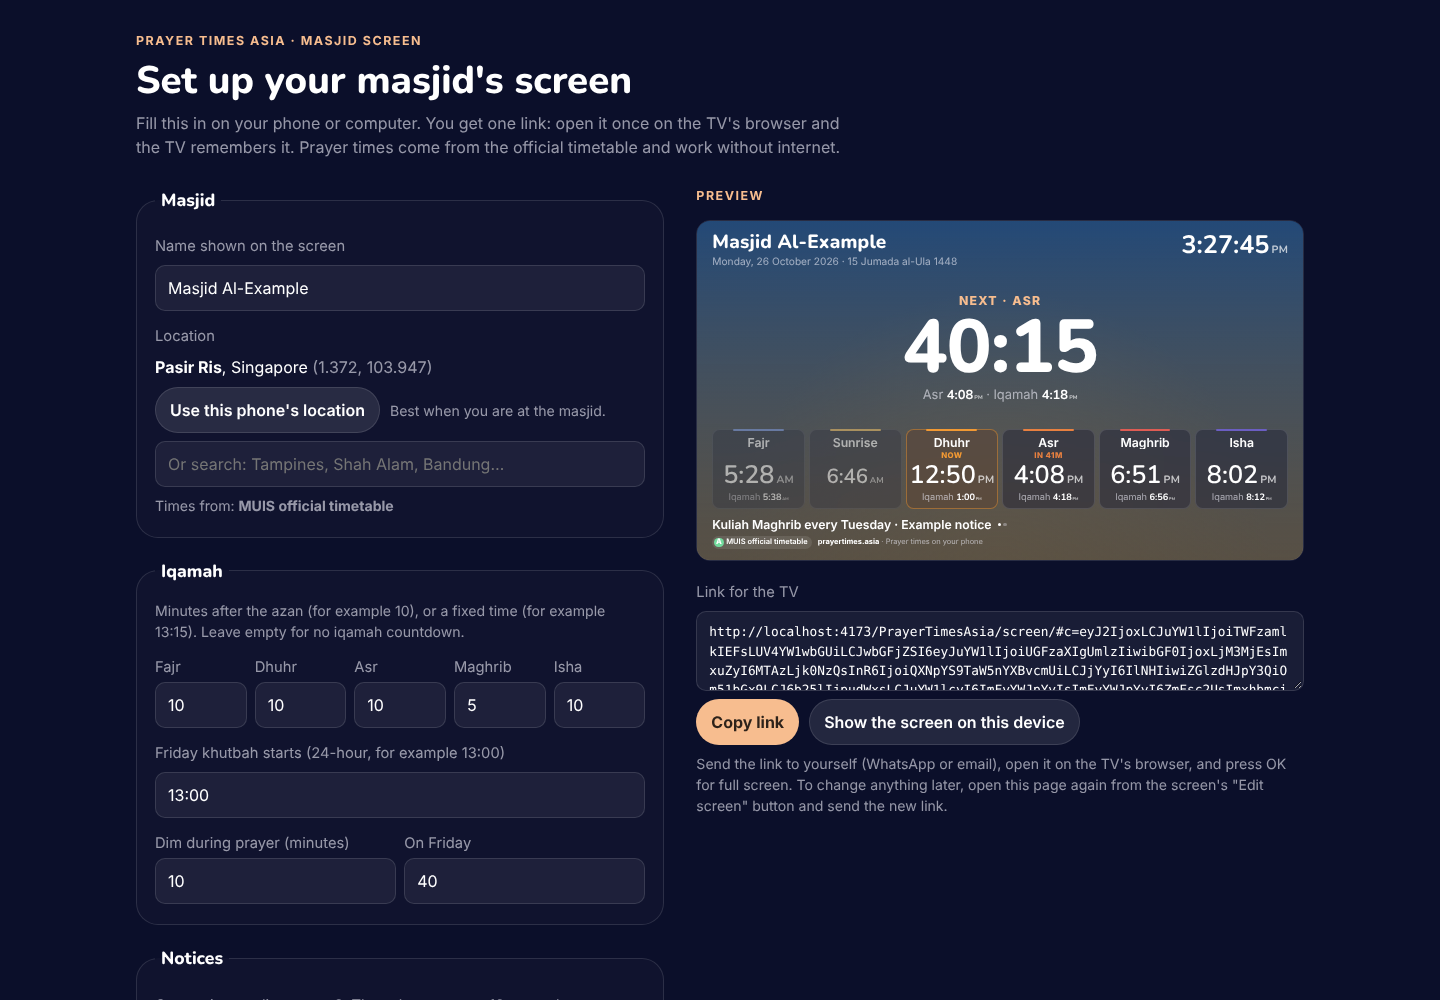
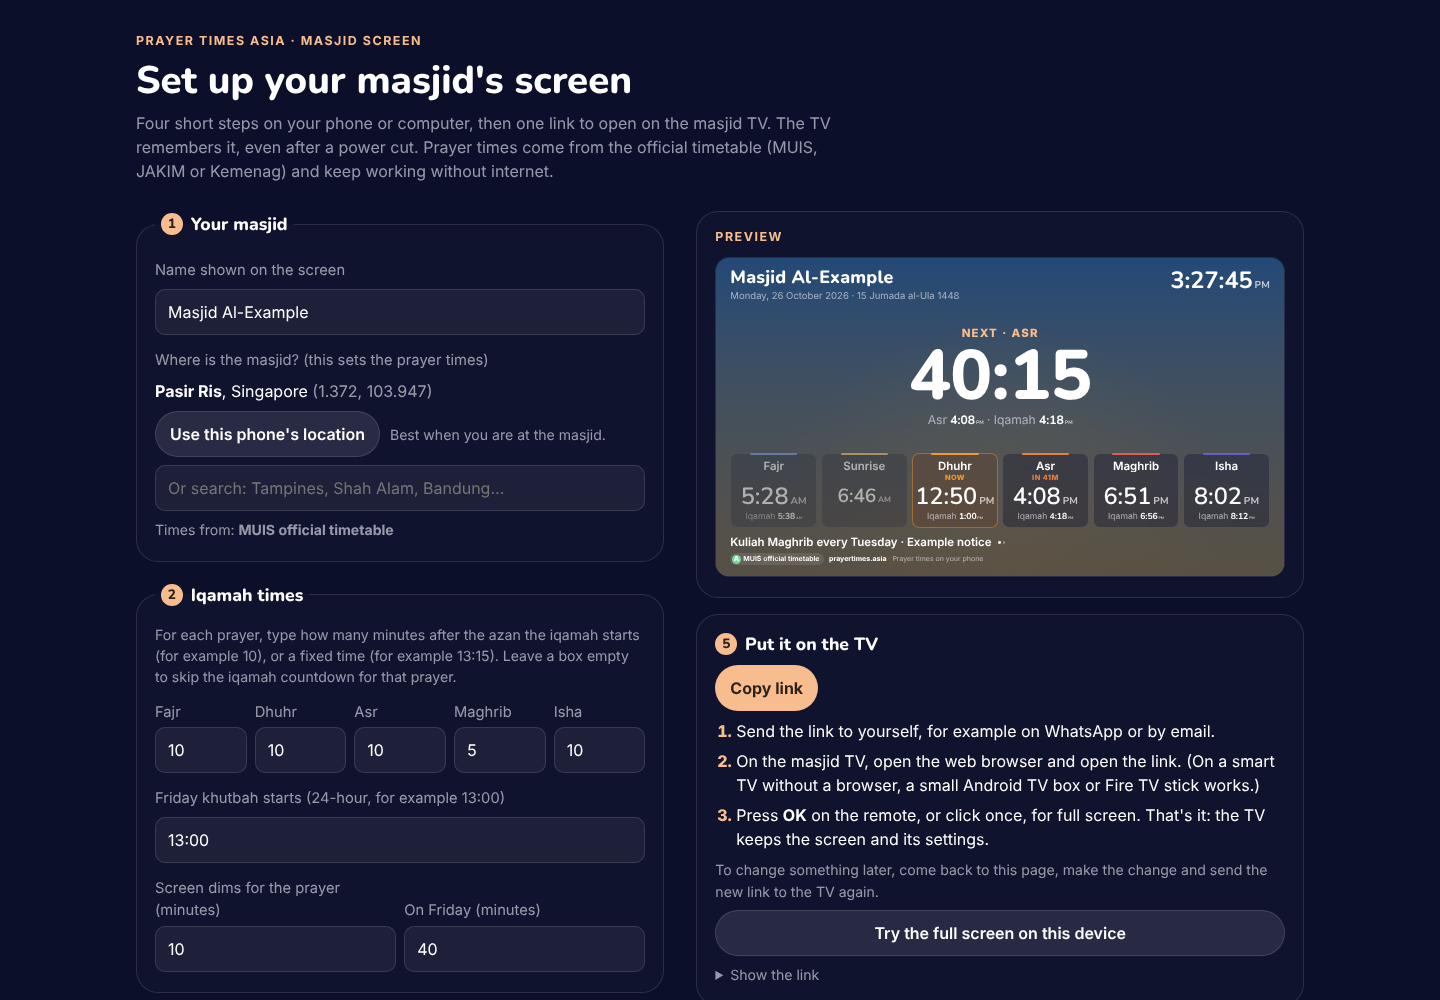
Masjid screen setup: fix overlap on phones, example preview, clearer steps (#19)
* Web: masjid screen for TVs, with a setup page for the committee

A second page (web/screen/) shows the next prayer's countdown, the six times
with iqamah, Jumu'ah khutbah, Ramadan Imsak and rotating notices, using the
same official MUIS/JAKIM/Kemenag tables and engine as the app. It dims during
prayer, keeps the TV awake, shifts against burn-in and reloads at 3 am.
Setup is a phone form that produces one link (settings in the #hash).
docs/masjid-screen.md records the research behind it.

Claude-Session: https://claude.ai/code/session_01N3UT55kGUzTCzRML5iKXZQ

* Masjid screen: English by default, three looks (Night, Day, Board)

Claude-Session: https://claude.ai/code/session_01N3UT55kGUzTCzRML5iKXZQ

* Masjid screen: match the app's look (Living Sky, rounded type, glass cards)

Claude-Session: https://claude.ai/code/session_01N3UT55kGUzTCzRML5iKXZQ

* Masjid screen: Bands, Day Dial and Sun Path looks from the app's styles

Claude-Session: https://claude.ai/code/session_01N3UT55kGUzTCzRML5iKXZQ

* Masjid screen setup: fix overlap on phones, example preview, clearer steps

On phones the preview panel was pinned to the top and slid over the form.
It now sits after the form, and is pinned only on tall desktop windows.
The preview shows example times until a location is chosen. The form is
four numbered steps, then step 5 explains how to put it on the TV, with
a Share button on phones and the raw link tucked away.
[…]

diff --git a/web/src/screen/Setup.tsx b/web/src/screen/Setup.tsx
@@ -6,7 +6,7 @@ import { deviceTimeZone } from '../core/tz'
 import { nearestCity, searchCities } from '../services/cities'
 import { ensureTable } from '../services/officialTables'
 import {
-  encodeConfig, iqamahText, isHHMM, MAX_NOTICE_LENGTH, MAX_NOTICES, OBLIGATORY_PRAYERS, parseIqamah,
+  encodeConfig, EXAMPLE_PLACE, iqamahText, isHHMM, MAX_NOTICE_LENGTH, MAX_NOTICES, OBLIGATORY_PRAYERS, parseIqamah,
   type Obligatory, type ScreenConfig, type ScreenLanguage, type ScreenLook, type ScreenPlace,
 } from './config'
 import { Display } from './Display'
@@ -25,7 +25,7 @@ export function Setup({ initial, now, onOpen }: { initial: ScreenConfig; now: nu
   const [notices, setNotices] = useState(initial.notices.join('\n'))
   const [query, setQuery] = useState('')
   const [gps, setGps] = useState<'idle' | 'busy' | 'failed'>('idle')
-  const [copied, setCopied] = useState(false)
+  const [copied, setCopied] = useState<'copied' | 'shared' | null>(null)
   const [, setTables] = useState(0)
 
   const set = (change: Partial<ScreenConfig>) => setC((old) => ({ ...old, ...change }))
@@ -69,29 +69,38 @@ export function Setup({ initial, now, onOpen }: { initial: ScreenConfig; now: nu
     set({ notices: text.split('\n').map((s) => s.trim().slice(0, MAX_NOTICE_LENGTH)).filter(Boolean).slice(0, MAX_NOTICES) })
   }
 
+  const flash = (what: 'copied' | 'shared') => { setCopied(what); setTimeout(() => setCopied(null), 2500) }
   const copy = async () => {
-    try { await navigator.clipboard.writeText(link); setCopied(true); setTimeout(() => setCopied(false), 2500) } catch {
-      const el = document.getElementById('screen-link') as HTMLTextAreaElement | null
-      el?.select()
+    try { await navigator.clipboard.writeText(link); flash('copied') } catch {
+      const box = document.getElementById('screen-link-box') as HTMLDetailsElement | null
+      if (box) box.open = true
+      ;(document.getElementById('screen-link') as HTMLTextAreaElement | null)?.select()
     }
   }
+  // Phones: the share sheet, so the link goes straight into WhatsApp or email.
+  const canShare = typeof navigator !== 'undefined' && typeof navigator.share === 'function'
+  const share = async () => {
+    try { await navigator.share({ title: `${c.name || 'Masjid'} prayer screen`, text: 'Open this link on the masjid TV:', url: link }); flash('shared') } catch { /* closed */ }
+  }
+  // Until a location is chosen the preview shows an example, so it is never blank.
+  const preview = c.place ? c : { ...c, place: EXAMPLE_PLACE, name: c.name || 'Your masjid' }
 
   return (
     <main class="setup">
       <header class="setup-head">
         <p class="eyebrow">Prayer Times Asia · Masjid screen</p>
         <h1>Set up your masjid's screen</h1>
-        <p class="muted">Fill this in on your phone or computer. You get one link: open it once on the TV's browser and the TV remembers it. Prayer times come from the official timetable and work without internet.</p>
+        <p class="muted">Four short steps on your phone or computer, then one link to open on the masjid TV. The TV remembers it, even after a power cut. Prayer times come from the official timetable (MUIS, JAKIM or Kemenag) and keep working without internet.</p>
       </header>
 
       <div class="setup-body">
         <form class="setup-form" onSubmit={(e) => e.preventDefault()}>
           <fieldset>
-            <legend>Masjid</legend>
+            <legend><span class="step">1</span>Your masjid</legend>
             <label for="s-name">Name shown on the screen</label>
             <input id="s-name" value={c.name} maxLength={80} placeholder="Masjid Al-Falah" onInput={(e) => set({ name: (e.target as HTMLInputElement).value })} />
 
-            <label for="s-place">Location</label>
+            <label for="s-place">Where is the masjid? (this sets the prayer times)</label>
             {c.place && (
               <p class="setup-chosen">
                 <b>{c.place.name}</b>{c.place.cc && <>, {profileFor(c.place.cc)?.name ?? c.place.cc}</>} <span class="muted">({c.place.lat.toFixed(3)}, {c.place.lng.toFixed(3)})</span>
@@ -123,8 +132,8 @@ export function Setup({ initial, now, onOpen }: { initial: ScreenConfig; now: nu
           </fieldset>
 
           <fieldset>
-            <legend>Iqamah</legend>
-            <p class="muted small">Minutes after the azan (for example 10), or a fixed time (for example 13:15). Leave empty for no iqamah countdown.</p>
+            <legend><span class="step">2</span>Iqamah times</legend>
+            <p class="muted small">For each prayer, type how many minutes after the azan the iqamah starts (for example 10), or a fixed time (for example 13:15). Leave a box empty to skip the iqamah countdown for that prayer.</p>
             <div class="setup-iq">
               {OBLIGATORY_PRAYERS.map((p) => (
                 <div key={p}>
@@ -140,25 +149,25 @@ export function Setup({ initial, now, onOpen }: { initial: ScreenConfig; now: nu
               onInput={(e) => { const v = (e.target as HTMLInputElement).value.trim(); set({ jumuah: isHHMM(v) ? v.padStart(5, '0') : null }) }} />
             <div class="setup-iq two">
               <div>
-                <label for="s-dim">Dim during prayer (minutes)</label>
+                <label for="s-dim">Screen dims for the prayer (minutes)</label>
                 <input id="s-dim" type="number" min={0} max={30} value={c.dimMinutes} onInput={(e) => set({ dimMinutes: Math.max(0, Math.min(30, +(e.target as HTMLInputElement).value || 0)) })} />
               </div>
               <div>
-                <label for="s-dimj">On Friday</label>
+                <label for="s-dimj">On Friday (minutes)</label>
                 <input id="s-dimj" type="number" min={0} max={90} value={c.jumuahDimMinutes} onInput={(e) => set({ jumuahDimMinutes: Math.max(0, Math.min(90, +(e.target as HTMLInputElement).value || 0)) })} />
               </div>
             </div>
           </fieldset>
 
           <fieldset>
-            <legend>Notices</legend>
-            <label for="s-notices">One notice per line, up to {MAX_NOTICES}. They change every 12 seconds.</label>
+            <legend><span class="step">3</span>Notices <span class="muted small">(optional)</span></legend>
+            <label for="s-notices">One notice per line, up to {MAX_NOTICES}. The screen shows them one at a time, changing every 12 seconds.</label>
             <textarea id="s-notices" rows={5} value={notices} placeholder={'Kuliah Maghrib every Tuesday with Ustaz Ahmad\nKhairat kematian: contact the office'}
               onInput={(e) => setNoticeText((e.target as HTMLTextAreaElement).value)} />
           </fieldset>
 
           <fieldset>
-            <legend>Language and look</legend>
+            <legend><span class="step">4</span>Look and language</legend>
             <label for="s-look">Look</label>
             <select id="s-look" value={c.look} onChange={(e) => set({ look: (e.target as HTMLSelectElement).value as ScreenLook })}>
               <option value="night">Night: dark, calm in a dim hall</option>
@@ -188,17 +197,31 @@ export function Setup({ initial, now, onOpen }: { initial: ScreenConfig; now: nu
         </form>
 
         <aside class="setup-side">
-          <p class="eyebrow">Preview</p>
-          <Frame class="setup-preview"><Display config={c} now={now} /></Frame>
-          <div class="setup-link">
-            <label for="screen-link">Link for the TV</label>
-            <textarea id="screen-link" readOnly rows={3} value={link} onFocus={(e) => (e.target as HTMLTextAreaElement).select()} />
+          <section class="setup-card">
+            <p class="eyebrow">Preview</p>
+            <Frame class="setup-preview"><Display config={preview} now={now} /></Frame>
+            {!c.place && <p class="muted small">This is an example. Choose your masjid's location in step 1 to see its own times.</p>}
+          </section>
+
+          <section class="setup-card setup-link">
+            <h2><span class="step">5</span>Put it on the TV</h2>
+            {!c.place && <p class="setup-error">Choose the masjid's location in step 1 first.</p>}
             <div class="setup-row">
-              <button type="button" class="primary" onClick={copy} disabled={!c.place}>{copied ? 'Copied' : 'Copy link'}</button>
-              <button type="button" onClick={() => onOpen(c)} disabled={!c.place}>Show the screen on this device</button>
+              {canShare && <button type="button" class="primary" onClick={share} disabled={!c.place}>{copied === 'shared' ? 'Sent' : 'Share link'}</button>}
+              <button type="button" class={canShare ? '' : 'primary'} onClick={copy} disabled={!c.place}>{copied === 'copied' ? 'Copied' : 'Copy link'}</button>
             </div>
-            <p class="muted small">Send the link to yourself (WhatsApp or email), open it on the TV's browser, and press OK for full screen. To change anything later, open this page again from the screen's "Edit screen" button and send the new link.</p>
-          </div>
+            <ol class="setup-steps">
+              <li>Send the link to yourself, for example on WhatsApp or by email.</li>
+              <li>On the masjid TV, open the web browser and open the link. (On a smart TV without a browser, a small Android TV box or Fire TV stick works.)</li>
+              <li>Press <b>OK</b> on the remote, or click once, for full screen. That's it: the TV keeps the screen and its settings.</li>
+            </ol>
+            <p class="muted small">To change something later, come back to this page, make the change and send the new link to the TV again.</p>
+            <button type="button" onClick={() => onOpen(c)} disabled={!c.place}>Try the full screen on this device</button>
+            <details id="screen-link-box">
+              <summary class="muted small">Show the link</summary>
+              <textarea id="screen-link" readOnly rows={4} value={link} onFocus={(e) => (e.target as HTMLTextAreaElement).select()} />
+            </details>
+          </section>
         </aside>
       </div>
     </main>

diff --git a/web/src/screen/screen.css b/web/src/screen/screen.css
@@ -214,10 +214,19 @@ button, input, select, textarea { font: inherit; color: inherit; }
 .muted { color: var(--fg2); }
 .small { font-size: 0.88rem; }
 .setup-body { display: grid; grid-template-columns: minmax(0, 1fr) minmax(0, 1.15fr); gap: 32px; align-items: start; }
-@media (max-width: 900px) { .setup-body { grid-template-columns: 1fr; } .setup-side { order: -1; } }
+/* Phones and narrow windows: one column, preview and "Put it on the TV" after the four steps, nothing pinned. */
+@media (max-width: 900px) { .setup-body { grid-template-columns: 1fr; } }
 .setup-form { display: grid; gap: 20px; min-width: 0; }
 fieldset { border: 1px solid var(--stroke); border-radius: 22px; padding: 16px 18px 20px; margin: 0; display: grid; gap: 8px; background: var(--glass); min-width: 0; }
-legend { padding: 0 6px; font-family: var(--font-display); font-weight: 800; font-size: 1.1rem; }
+legend, .setup-card h2 { padding: 0 6px; font-family: var(--font-display); font-weight: 800; font-size: 1.1rem; display: inline-flex; align-items: center; gap: 8px; }
+.setup-card h2 { margin: 0; padding: 0; }
+.step { display: inline-grid; place-items: center; width: 1.6em; height: 1.6em; border-radius: 50%; background: var(--accent); color: rgba(0, 0, 0, 0.82); font-size: 0.85rem; font-weight: 800; flex: none; }
+.setup-card { border: 1px solid var(--stroke); border-radius: 22px; padding: 16px 18px 20px; background: var(--glass); display: grid; gap: 10px; min-width: 0; }
+.setup-card .eyebrow { margin: 0; }
+.setup-steps { margin: 0; padding-left: 1.3em; display: grid; gap: 6px; }
+.setup-steps li::marker { color: var(--accent); font-weight: 800; }
+details summary { cursor: pointer; }
+details textarea { margin-top: 8px; }
 fieldset p { margin: 0; }
 label { font-size: 0.92rem; color: var(--fg2); margin-top: 6px; }
 label.check { display: flex; gap: 10px; align-items: center; color: var(--fg); }
@@ -238,9 +247,12 @@ textarea { resize: vertical; }
 .setup-results li + li button { border-top: 1px solid var(--line); }
 .setup-results .muted { font-weight: 400; }
 .setup-iq { display: grid; grid-template-columns: repeat(5, minmax(0, 1fr)); gap: 8px; }
-.setup-iq.two { grid-template-columns: repeat(2, minmax(0, 1fr)); }
+@media (max-width: 420px) { .setup-iq { gap: 6px; } .setup-iq label { font-size: 0.8rem; } .setup-iq input { padding: 10px 6px; text-align: center; } }
+.setup-iq.two { grid-template-columns: repeat(2, minmax(0, 1fr)); align-items: end; }
 .setup-iq > div { display: grid; gap: 4px; }
-.setup-side { display: grid; gap: 14px; position: sticky; top: 16px; min-width: 0; }
+.setup-side { display: grid; gap: 16px; min-width: 0; }
+/* Keeps the preview in view while filling in the form, only where all of it fits on screen. */
+@media (min-width: 901px) and (min-height: 880px) { .setup-side { position: sticky; top: 16px; } }
 .setup-preview { aspect-ratio: 16 / 9; height: auto; border-radius: 14px; border: 1px solid var(--line); max-width: 100%; }
 .setup-link { display: grid; gap: 8px; }
 .setup-link textarea { font-family: ui-monospace, Menlo, monospace; font-size: 0.8rem; word-break: break-all; }

diff --git a/web/src/screen/main.tsx b/web/src/screen/main.tsx
@@ -6,7 +6,7 @@ import { zoned } from '../core/tz'
 import { ensureTable } from '../services/officialTables'
 import { readJSON, writeJSON } from '../services/storage'
 import { registerServiceWorker } from '../ui/pwa'
-import { configFromHash, DEFAULT_CONFIG, encodeConfig, sanitize, type ScreenConfig } from './config'
+import { configFromHash, DEFAULT_CONFIG, encodeConfig, EXAMPLE_PLACE, sanitize, type ScreenConfig } from './config'
 import { Display } from './Display'
 import { Frame } from './Frame'
 import { officialSourceForScreen, WORDS } from './model'
@@ -22,7 +22,7 @@ const fixedNow = (() => { const t = Date.parse(query.get('now') ?? ''); return N
 export const DEMO_CONFIG: ScreenConfig = {
   ...DEFAULT_CONFIG,
   name: 'Masjid Al-Example',
-  place: { name: 'Pasir Ris', lat: 1.3721, lng: 103.9474, tz: 'Asia/Singapore', cc: 'SG' },
+  place: EXAMPLE_PLACE,
   jumuah: '13:00',
   notices: ['Kuliah Maghrib every Tuesday · Example notice', 'Please keep the corridors clear for wheelchairs · Example notice'],
 }

diff --git a/web/src/screen/config.ts b/web/src/screen/config.ts
@@ -71,6 +71,9 @@ export const DEFAULT_CONFIG: ScreenConfig = {
   jumuahDimMinutes: 40,
 }
 
+/** Shown in the setup preview until the committee chooses the masjid's location. */
+export const EXAMPLE_PLACE: ScreenPlace = { name: 'Pasir Ris', lat: 1.3721, lng: 103.9474, tz: 'Asia/Singapore', cc: 'SG', district: null }
+
 export const MAX_NOTICES = 8
 export const MAX_NOTICE_LENGTH = 160
 
